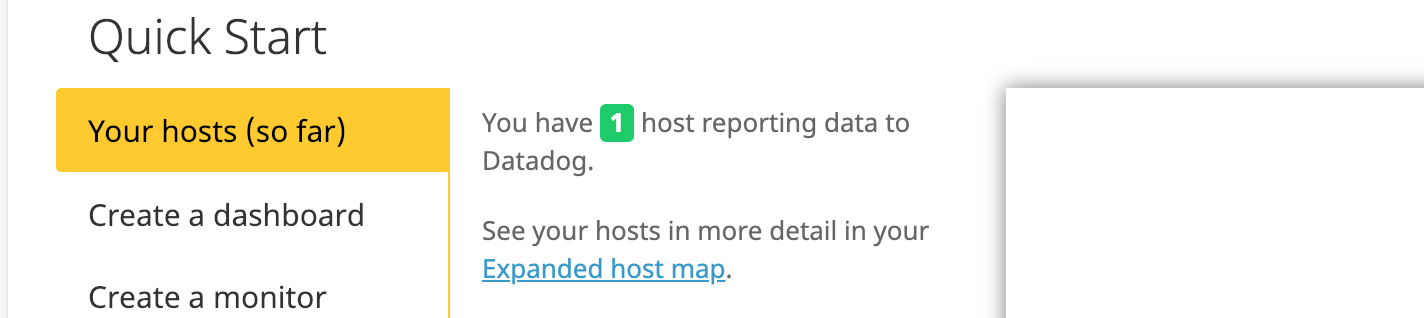
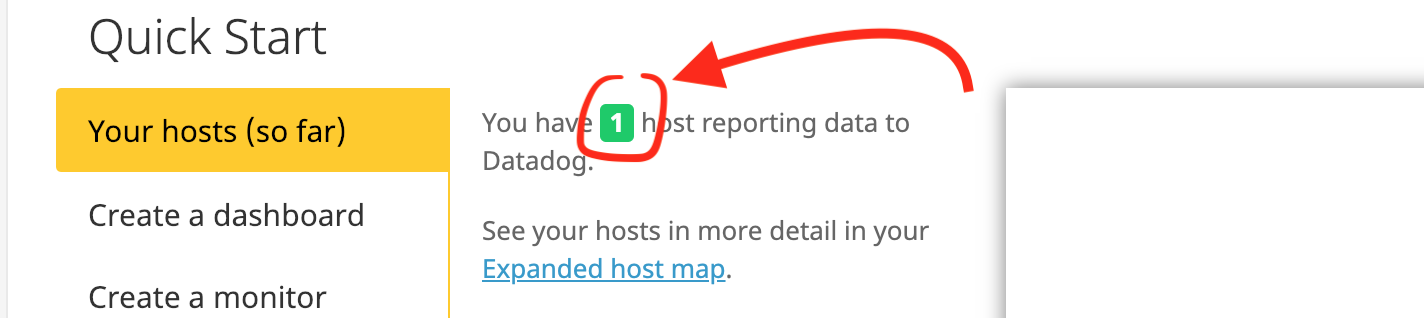
Add "Collecting Metrics" section in answers + minor grammar and spelling + format tweaking + minor image edit

Changed region(s): [[0.4017, 0.0849, 0.7107, 0.5094]]

diff --git a/docs/datadog/my_metric.py b/docs/datadog/my_metric.py
@@ -1,0 +1,20 @@
+import random
+
+for jj in range(1):
+    my_metric = random.randint(1, 1001)
+
+# the following try/except block will make the custom check compatible with any Agent version
+try:
+    # first, try to import the base class from old versions of the Agent...
+    from checks import AgentCheck
+except ImportError:
+    # ...if the above failed, the check is running in Agent version 6 or later
+    from datadog_checks.checks import AgentCheck
+
+# content of the special variable __version__ will be shown in the Agent status page
+__version__ = "1.0.0"
+
+
+class my_metric_check(AgentCheck):
+    def check(self, instance):
+            self.gauge('my_metric', random.randint(1, 1001))

diff --git a/answers.md b/answers.md
@@ -6,27 +6,112 @@ Hi there, my name is Sara Burke. I'm applying for a Solutions Engineer position 
 
 I chose to keep the VM simple and follow recommendations to make an Ubuntu VM using Vagrant. I haven't had many opportunities to work with Docker, so I'll try to isolate the learning part of this process to DataDog products.
 
-Initially, I tried (and failed) to install the datadog agent using provisioning within the Vagrantfile and a shell script. My knowledge of setting up Vagrant from scratch with provisions is spotty, particularly in working with keys. 
+* Initially, I tried (and failed) to install the DataDog Agent using provisioning within the Vagrantfile and a shell script. My knowledge of setting up Vagrant from scratch with provisions is spotty, particularly in working with keys.
 
-![datadog failed to install using script.](imgs/01-Screen-Shot-datadog-failed-to-install.png)
+![DataDog failed to install using script.](imgs/01-Screen-Shot-datadog-failed-to-install.png)
 
-So instead I'll admit defeat and successfully run the "easy one-step install" listed under Agent Setup during the signup process. More time will be spent in the future to learn about Vagrantfiles and detailed provisioning/shell scripts.
+* So instead I'll admit defeat and successfully run the Agent's "easy one-step install" in the shell. I am going to spend more time in the future learning about Vagrantfiles and detailed provisioning/shell scripts.
 
-![datadog succeeded in installation.](imgs/02-Screen-Shot-successful-datadog-install.png)
+![DataDog succeeded in installation.](imgs/02-Screen-Shot-successful-datadog-install.png)
 
-Great! It's working. Let's move on.
+* Great! It's working. Let's move on.
 
-![confirmation that datadog is receiving data from one host.](imgs/03-Screen-Shot-hosts-show-1.png)
+![confirmation that DataDog is receiving data from one host.](imgs/03-Screen-Shot-hosts-show-1.png)
 
-## Collecting Metrics:
+## Collecting Metrics
 
-* Add tags in the Agent config file and show us a screenshot of your host and its tags on the Host Map page in Datadog.
-* Install a database on your machine (MongoDB, MySQL, or PostgreSQL) and then install the respective Datadog integration for that database.
-* Create a custom Agent check that submits a metric named my_metric with a random value between 0 and 1000.
-* Change your check's collection interval so that it only submits the metric once every 45 seconds.
+* I decided to spin up a couple of additional Vagrant instances of Ubuntu (total of one Trusty64, two Xenial64s). This time I successfully used Vagrant's provisioning to install the DataDog Agent on first "Vagrant up". Previously, I must have accidentally included a newline when adding the one-liner-install into the the provisioning file. I have included these [Vagrant related files in the docs folder.](docs/vagrant/)
+
+* I added tags and changed hostnames on the Agent config files across the three VMs and restarted the Agent. Then I discovered that I should have prepended the one-liner-intalls in the provisioning files with "DD_INSTALL_ONLY=true". Since changes can take up to 30 minutes to take full effect, DataDog was recognizing the new hostnames as separate machines. Temporarily, five hosts were displayed instead of three.
+
+* A snippet of some changes that I made to the datadog.yaml are displayed below.
+
+```yaml
+# Force the hostname to whatever you want. (default: auto-detected)
+hostname: Primary.machine
+
+# ...
+
+# Set the host's tags (optional)
+tags:
+  - importance:high
+  - env:prod
+  - role:database
+```
+
+* Tag functionality displayed across three VMs on the Host Map.
+
+![screenshot of host map with tags selected.](imgs/04-Screen-Shot-host-map-tags.png)
+
+* I installed MySQL using a [Vagrant provisioning file](docs/vagrant/install.sh) with the script snippet below.
+
+```bash
+# MySQL ========================
+    # Set MySQL Password
+    debconf-set-selections <<< "mysql-server mysql-server/root_password password $DBPASSWD"
+    debconf-set-selections <<< "mysql-server mysql-server/root_password_again password $DBPASSWD"
+
+    # Install MySQL
+    apt-get -y install mysql-server
+
+    # Create a new database
+    mysql -uroot -p$DBPASSWD -e "CREATE DATABASE $DBNAME"
+```
+
+* I installed the DataDog integration for MySQL via shell and then performed the checks shown below.
+
+![shell My SQL integration confirmation](imgs/05-Screen-Shot-MySQL-confirm.png)
+
+* I also ran datadog-agent status checks for MySQL integration, and confirmed the integration via web GUI.
+
+![DataDog status checks](imgs/06-Screen-Shot-mySQL-check-success.png)
+
+* I created a custom Agent check named my_metric that generated a random int between 0 and 1000 in Python. Displayed below are the code snippets, with comments trimmed, to make this check functional.
+
+[my_metric python file:](docs/datadog/my_metric.py)
+```python
+import random
+
+for jj in range(1):
+    my_metric = random.randint(0, 1001)
+
+try:
+    from checks import AgentCheck
+except ImportError:
+    from datadog_checks.checks import AgentCheck
+
+__version__ = "1.0.0"
+
+class my_metric_check(AgentCheck):
+    def check(self, instance):
+            self.gauge('my_metric', random.randint(0, 1001))
+
+```
+
+[my_metric yaml file:](docs/datadog/my_metric.yaml)
+```yaml
+instances: [{}]
+```
+
+* Here is a screen shot of a successful Agent check on my_metric.
+
+![custom metric checked](imgs/07-Screen-Shot-my_metric-agent-check-success.png)
+
+* I changed my_metric's collection interval to once every 45 seconds by changing the [my_metric.yaml](docs/datadog/my_metric.yaml) file to contain the following code snippet.
+
+```yaml
+# instances: [{}]
+
+init_config:
+
+instances:
+  - min_collection_interval: 45
+```
+
 * **Bonus Question** Can you change the collection interval without modifying the Python check file you created?
+  * Yes, interval collection can be changed within the metric's yaml file as shown in the last step.
 
-## Visualizing Data:
+## Visualizing Data
 
 Utilize the Datadog API to create a Timeboard that contains:
 
@@ -65,7 +150,7 @@ Please configure the monitor’s message so that it will:
   * And one that silences it all day on Sat-Sun.
   * Make sure that your email is notified when you schedule the downtime and take a screenshot of that notification.
 
-## Collecting APM Data:
+## Collecting APM Data
 
 Given the following Flask app (or any Python/Ruby/Go app of your choice) instrument this using Datadog’s APM solution:
 
@@ -108,7 +193,7 @@ Provide a link and a screenshot of a Dashboard with both APM and Infrastructure 
 
 Please include your fully instrumented app in your submission, as well.
 
-## Final Question:
+## Final Question
 
 Datadog has been used in a lot of creative ways in the past. We’ve written some blog posts about using Datadog to monitor the NYC Subway System, Pokemon Go, and even office restroom availability!
 
